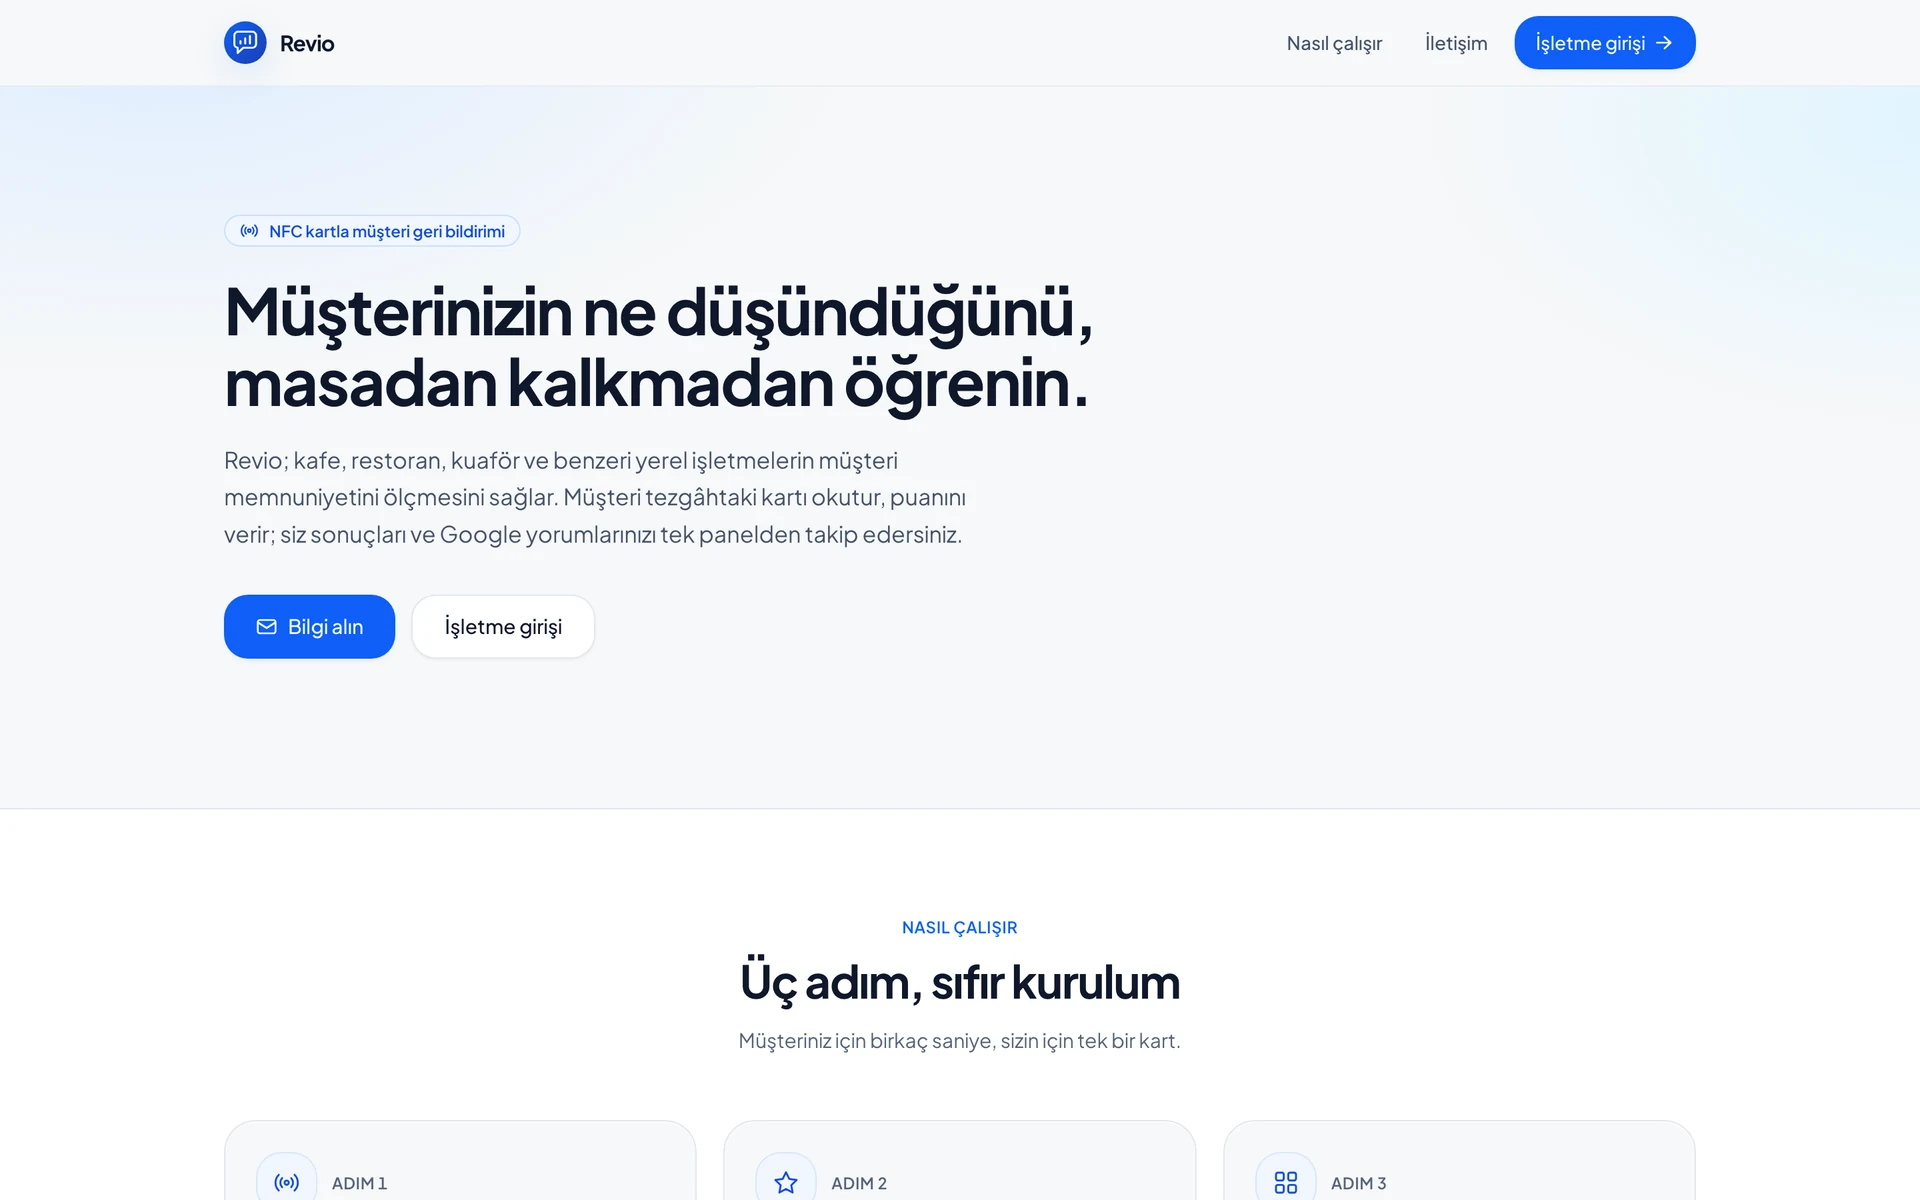
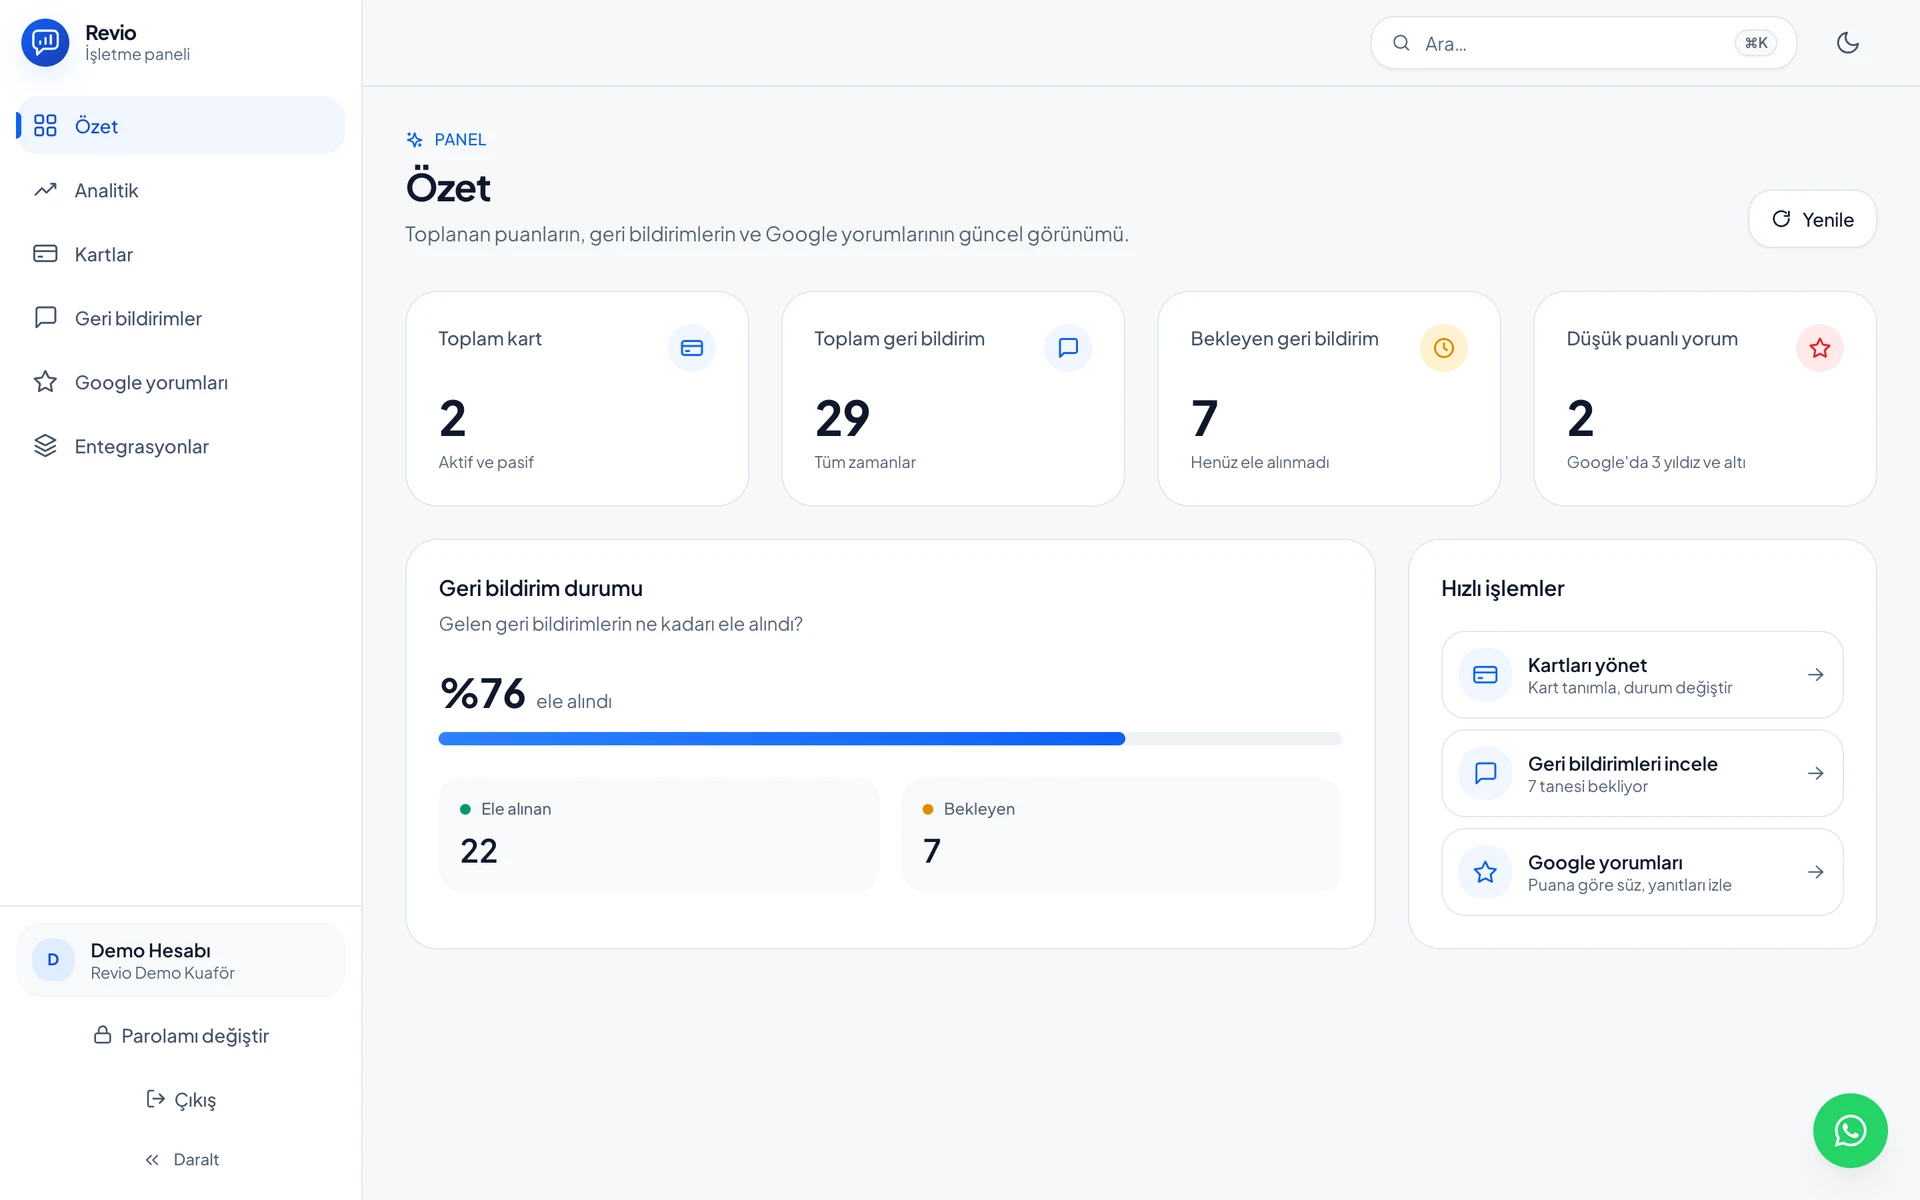
feat: show Revio's product instead of the site that sells it
Every Revio image was a crop of the marketing page, cover included. The
other case studies lead with the thing that was built; this one led with a
landing page, which is the one screenshot that proves nothing.

The panel behind the login could not fill the gap: it belongs to a real
salon, and its feedback list is real named complaints about a real named
person. So the app was run locally instead, against the demo tenant it
already ships for its own sales flow — 358 scans, 29 pieces of feedback and
25 Google reviews, all generated from a fixed seed. These are the screens
as built, with nobody's data in them, and better numbers than the live
account happens to have.

Shot through Chrome at deviceScaleFactor 2, so the files land at 2880 wide
and the case-study cover earns the full 960px box that the previous 800px
screenshots could not.

Four new screens, in the order the product actually happens: the five-star
question a customer sees after tapping the card; the analytics page, where
scores become something to act on; the feedback list, which is the reason
behind a low score rather than the score itself; and the owner's dashboard,
now the cover. The two weakest marketing crops are dropped; the three-step
explainer and the data-protection card stay, because they say something
the product screens do not.

diff --git a/src/data/projects.ts b/src/data/projects.ts
@@ -223,38 +223,49 @@ const projectsData = [
       demo: "https://www.revioapp.com.tr/",
       // No `github`: the repository is private.
     },
-    // Re-shot from the live site at 2x device scale. Revio is the only project
-    // whose screenshots can be retaken without credentials — it is public — so
-    // it is the only one carrying enough pixels for a retina display.
+    // The product, not the website that sells it. Shot at 2x against a locally
+    // seeded demo tenant: the live panel belongs to a real salon, and its
+    // feedback list is real named complaints about a real named person, which
+    // is not something a portfolio gets to publish. The demo tenant ships with
+    // the product — it is what the sales flow uses — so these are the screens
+    // as built, with none of anyone's data in them.
     cover: {
       src: "/images/projects/revio.webp",
-      alt: "The Revio landing page: 'Find out what your customer thinks before they leave the table'.",
+      alt: "The owner's panel: cards, feedback, pending items and how much of it has been handled.",
       width: 1920,
       height: 1200,
     },
     gallery: [
+      {
+        src: "/images/projects/revio-musteri.webp",
+        alt: "The screen a customer sees after tapping the card: five stars and one question.",
+        width: 820,
+        height: 1165,
+        caption:
+          "Everything starts here. One question, five stars, no app and no account — the whole reason the data exists.",
+      },
+      {
+        src: "/images/projects/revio-analitik.webp",
+        alt: "The analytics page: strengths, weaknesses, Google score and the scan-to-review rate.",
+        width: 1440,
+        height: 900,
+        caption:
+          "Where the scores turn into something to act on — including the gap between what people say in private and what they post on Google.",
+      },
+      {
+        src: "/images/projects/revio-geribildirim.webp",
+        alt: "The feedback list: low scores with the note the customer left, and a handled toggle.",
+        width: 1440,
+        height: 900,
+        caption:
+          "The reason behind a low score. A number tells an owner something went wrong; this tells them what.",
+      },
       {
         src: "/images/projects/revio-steps.webp",
         alt: "Three steps: the customer taps the card, rates the visit, the owner watches the panel.",
         width: 1440,
         height: 440,
         caption: "Three steps, no setup — the whole product in one screen.",
-      },
-      {
-        src: "/images/projects/revio-actions.webp",
-        alt: "Four cards describing what an owner does with a rating once it arrives.",
-        width: 1440,
-        height: 490,
-        caption:
-          "A score on its own changes nothing. The product is what the owner does with it next.",
-      },
-      {
-        src: "/images/projects/revio-google.webp",
-        alt: "The Google Business Profile section explaining read-only access and revocable permission.",
-        width: 1440,
-        height: 515,
-        caption:
-          "Google reviews land in the same panel — read-only, and revocable from Google's own settings.",
       },
       {
         src: "/images/projects/revio-privacy.webp",

diff --git a/src/i18n/content/projects.ts b/src/i18n/content/projects.ts
@@ -161,22 +161,27 @@ const TR: Record<ProjectSlug, ProjectCopy> = {
     ],
     metrics: [{ label: "Otomatik test" }, { label: "Domain katmanının paket bağımlılığı" }],
     cover: {
-      alt: "Revio ana sayfası: \"Müşterinizin ne düşündüğünü, masadan kalkmadan öğrenin.\"",
+      alt: "İşletme paneli: kartlar, geri bildirimler, bekleyenler ve ne kadarının ele alındığı.",
     },
     gallery: [
       {
+        alt: "Müşterinin kartı okutunca gördüğü ekran: beş yıldız ve tek bir soru.",
+        caption:
+          "Her şey burada başlıyor. Tek soru, beş yıldız, uygulama yok, hesap yok — verinin var olma sebebi bu ekran.",
+      },
+      {
+        alt: "Analitik sayfası: güçlü ve gelişebilir yönler, Google puanı ve okuma→yorum dönüşümü.",
+        caption:
+          "Puanların eyleme dönüştüğü yer — insanların size özel söyledikleriyle Google'a yazdıkları arasındaki fark dahil.",
+      },
+      {
+        alt: "Geri bildirim listesi: düşük puanlar, müşterinin bıraktığı not ve ele alındı işareti.",
+        caption:
+          "Düşük puanın arkasındaki gerekçe. Sayı işletmeciye bir şeylerin ters gittiğini söyler; bu ekran ne olduğunu söyler.",
+      },
+      {
         alt: "Üç adım: müşteri kartı okutur, ziyareti puanlar, işletmeci panelden izler.",
         caption: "Üç adım, sıfır kurulum — ürünün tamamı tek ekranda.",
-      },
-      {
-        alt: "İşletmecinin gelen bir puanla ne yaptığını anlatan dört kart.",
-        caption:
-          "Tek başına bir puan hiçbir şeyi değiştirmez. Ürün, işletmecinin o puanla ne yaptığıdır.",
-      },
-      {
-        alt: "Google Business Profile bölümü; yalnızca okuma erişimini ve geri alınabilir yetkiyi anlatıyor.",
-        caption:
-          "Google yorumları da aynı panele düşüyor — yalnızca okuma, ve Google'ın kendi ayarlarından geri alınabilir.",
       },
       {
         alt: "Veri koruma kartı: IP adresleri hiçbir zaman açık hâliyle saklanmıyor.",
